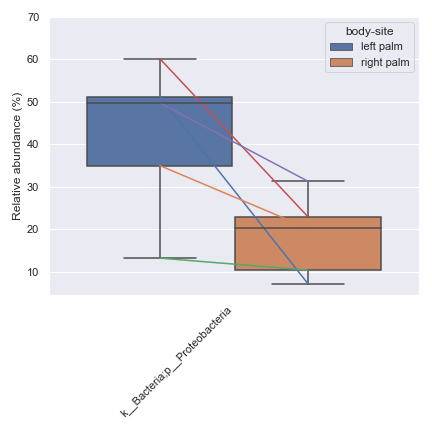
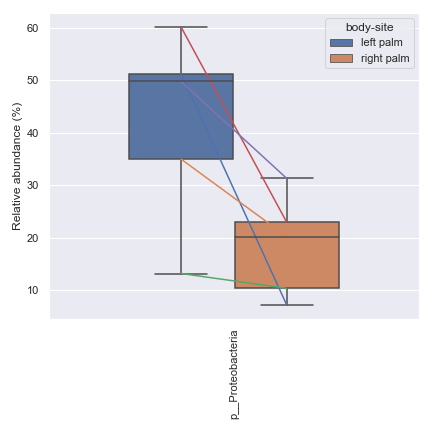
Update API

diff --git a/dokdo/api/wilcoxon.py b/dokdo/api/wilcoxon.py
@@ -48,40 +48,65 @@ def wilcoxon(
     the left palm and right palm. We also want to perofrm the comparison in
     the context of ``days-since-experiment-start`` (i.e. paired comparison).
 
-    >>> from qiime2 import Metadata
-    >>> metadata = Metadata.load('/Users/sbslee/Desktop/dokdo/data/moving-pictures-tutorial/sample-metadata.tsv')
-    >>> sample_names = ['L2S240', 'L3S242', 'L2S155', 'L4S63', 'L2S175', 'L3S313', 'L2S204', 'L4S112', 'L2S222', 'L4S137']
-    >>> metadata = metadata.filter_ids(sample_names)
-    >>> mf = dokdo.get_mf(metadata)
-    >>> mf = mf[['body-site', 'days-since-experiment-start']]
-    >>> mf.sort_values(['days-since-experiment-start', 'body-site'])
-                body-site  days-since-experiment-start
-    sample-id
-    L2S240      left palm                          0.0
-    L3S242     right palm                          0.0
-    L2S155      left palm                         84.0
-    L4S63      right palm                         84.0
-    L2S175      left palm                        112.0
-    L3S313     right palm                        112.0
-    L2S204      left palm                        140.0
-    L4S112     right palm                        140.0
-    L2S222      left palm                        168.0
-    L4S137     right palm                        168.0
-    >>> taxon = 'k__Bacteria;p__Proteobacteria'
-    >>> csv_file = 'wilcoxon.csv'
-    >>> barplot_file = '/Users/sbslee/Desktop/dokdo/data/moving-pictures-tutorial/taxa-bar-plots.qzv'
-    >>> ax = dokdo.taxa_abundance_box_plot(barplot_file, level=2, hue='body-site', taxa_names=[taxon],
-    ...                                    show_others=False, figsize=(6, 6), sample_names=sample_names,
-    ...                                    include_samples={'body-site': ['left palm', 'right palm']},
-    ...                                    csv_file=csv_file, artist_kwargs=dict(show_legend=True, ymax=70))
-    >>> dokdo.addpairs(taxon, csv_file, 'days-since-experiment-start', 'body-site', ['left palm', 'right palm'], ax=ax)
-    >>> plt.tight_layout()
+    .. code:: python3
+
+        import dokdo
+        from qiime2 import Metadata
+        import matplotlib.pyplot as plt
+        %matplotlib inline
+        import seaborn as sns
+        sns.set()
+
+        sample_names = ['L2S240', 'L3S242', 'L2S155', 'L4S63', 'L2S175', 'L3S313', 'L2S204', 'L4S112', 'L2S222', 'L4S137']
+
+        qzv_file = '/Users/sbslee/Desktop/dokdo/data/moving-pictures-tutorial/taxa-bar-plots.qzv'
+        metadata_file = '/Users/sbslee/Desktop/dokdo/data/moving-pictures-tutorial/sample-metadata.tsv'
+
+        metadata = Metadata.load(metadata_file)
+        metadata = metadata.filter_ids(sample_names)
+        mf = dokdo.get_mf(metadata)
+        mf = mf[['body-site', 'days-since-experiment-start']]
+
+        taxon = 'k__Bacteria;p__Proteobacteria'
+        csv_file = 'wilcoxon.csv'
+
+        ax = dokdo.taxa_abundance_box_plot(
+            qzv_file,
+            level=2,
+            hue='body-site',
+            taxa_names=[taxon],
+            show_others=False,
+            figsize=(6, 6),
+            sample_names=sample_names,
+            include_samples={'body-site': ['left palm', 'right palm']},
+            csv_file=csv_file,
+            pretty_taxa=True
+        )
+
+        dokdo.addpairs(
+            taxon,
+            csv_file,
+            'days-since-experiment-start',
+            'body-site', ['left palm', 'right palm'],
+            ax=ax
+        )
+
+        plt.tight_layout()
 
     .. image:: images/wilcoxon.png
 
-    >>> p_value = dokdo.wilcoxon(taxon, csv_file, 'days-since-experiment-start', 'body-site', 'left palm', 'right palm')
-    >>> print(f'The p-value is {p_value:.6f}')
-    The p-value is 0.062500
+    .. code:: python3
+
+        p_value = dokdo.wilcoxon(
+            taxon,
+            csv_file,
+            'days-since-experiment-start',
+            'body-site',
+            'left palm',
+            'right palm'
+        )
+        print(f'The p-value is {p_value:.6f}')
+        # Will print: The p-value is 0.062500
     """
     df = pd.read_csv(csv_file)
     df = df.sort_values([subject, category])

diff --git a/dokdo/api/mannwhitneyu.py b/dokdo/api/mannwhitneyu.py
@@ -46,21 +46,47 @@ def mannwhitneyu(
     need to create a .csv file containing the relevant data using the
     ``dokdo.taxa_abundance_box_plot`` method.
 
-    >>> from qiime2 import Metadata
-    >>> taxon = 'k__Bacteria;p__Proteobacteria'
-    >>> csv_file = 'mannwhitneyu.csv'
-    >>> barplot_file = '/Users/sbslee/Desktop/dokdo/data/moving-pictures-tutorial/taxa-bar-plots.qzv'
-    >>> ax = dokdo.taxa_abundance_box_plot(barplot_file, level=2, hue='body-site', taxa_names=[taxon],
-    ...                                    show_others=False, figsize=(6, 6), add_datapoints=True,
-    ...                                    include_samples={'body-site': ['left palm', 'right palm']},
-    ...                                    csv_file=csv_file, artist_kwargs=dict(show_legend=True, ymax=70))
-    >>> plt.tight_layout()
+    .. code:: python3
 
-    .. image:: images/mannwhitneyu-1.png
+        import dokdo
+        from qiime2 import Metadata
+        import matplotlib.pyplot as plt
+        %matplotlib inline
+        import seaborn as sns
+        sns.set()
 
-    >>> p_value = dokdo.mannwhitneyu(taxon, csv_file, 'body-site', 'left palm', 'right palm')
-    >>> print(f'The p-value is {p_value:.6f}')
-    The p-value is 0.235243
+        from qiime2 import Metadata
+        taxon = 'k__Bacteria;p__Proteobacteria'
+        csv_file = 'mannwhitneyu.csv'
+        qzv_file = '/Users/sbslee/Desktop/dokdo/data/moving-pictures-tutorial/taxa-bar-plots.qzv'
+
+        ax = dokdo.taxa_abundance_box_plot(
+            qzv_file,
+            level=2,
+            hue='body-site',
+            taxa_names=[taxon],
+            show_others=False,
+            figsize=(8, 7),
+            pretty_taxa=True,
+            include_samples={'body-site': ['left palm', 'right palm']},
+            csv_file=csv_file
+        )
+
+        plt.tight_layout()
+
+    .. image:: images/mannwhitneyu.png
+
+    .. code:: python3
+
+        p_value = dokdo.mannwhitneyu(
+            taxon,
+            csv_file,
+            'body-site',
+            'left palm',
+            'right palm'
+        )
+        print(f'The p-value is {p_value:.6f}')
+        # Will print: The p-value is 0.235243
     """
     df = pd.read_csv(csv_file)
     df = df[[taxon, category]]
